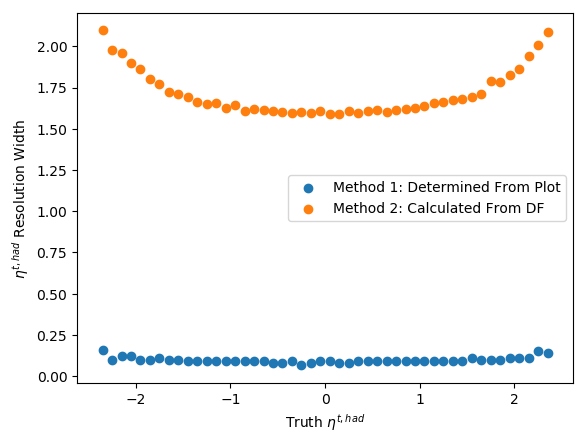
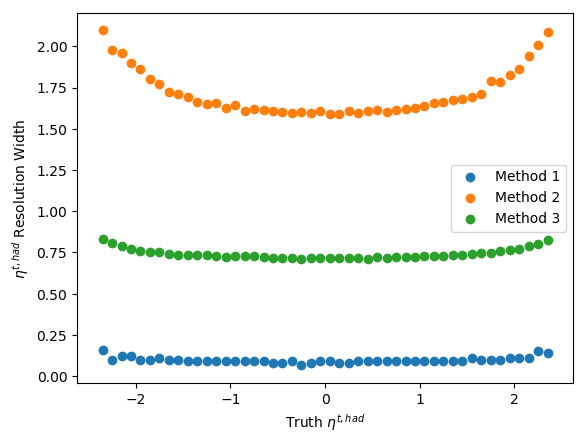
All changes (for now)

Changed region(s): [[0.1536, 0.3815, 0.9829, 0.6163], [0.4915, 0.4695, 0.5529, 0.4989]]

diff --git a/plotter.py b/plotter.py
@@ -4,7 +4,7 @@ import pandas as pd
 import awkward as ak
 import numpy as np
 import matplotlib
-matplotlib.use('Agg')  # need for not displaying plots when running batch jobs
+#matplotlib.use('Agg')  # need for not displaying plots when running batch jobs
 from matplotlib import pyplot as plt
 from matplotlib import colors
 from scipy.optimize import curve_fit
@@ -319,22 +319,35 @@ def Plot_Res_vs_Var(cutB,name,particle,variable,i,bins):
 		fwhm = x_r - x_l
 		
 		# Second method
-                sigma = cut_temp['resolution '+particle+' '+variable].std(ddof=0)
-                fwhm2 = 2*np.sqrt(2*np.log(2))*sigma
-                mean = cut_temp['resolution '+particle+' '+variable].mean()
+                sigma2 = cut_temp['resolution '+particle+' '+variable].std(ddof=0)
+                fwhm2 = 2*np.sqrt(2*np.log(2))*sigma2
+                mean2 = cut_temp['resolution '+particle+' '+variable].mean()
+
+
+		
+		# Third method
+		mid_bins = xhist[:-1] + np.diff(xhist)/2
+		mean3 = np.average(mid_bins, weights=yhist)
+		var3 = np.average((mid_bins - mean3)**2,weights=yhist)
+		sigma3 = np.sqrt(var3)
+		fwhm3 = 2*np.sqrt(2*np.log(2))*sigma3
+
+
 
 		# Append the data from this particular var
-		data.append([middle,fwhm,bins[2]/2,sigma,fwhm2,mean])
+		data.append([middle,fwhm,bins[2]/2,sigma2,fwhm2,mean2,sigma3,fwhm3,mean3])
 		
 	# Convert the array to a pandas data frame for easy reading	
-	df_res = pd.DataFrame(data,columns=(variable,'res fwhm','p/m','sigma2','fwhm2','mean2'))
+	df_res = pd.DataFrame(data,columns=(variable,'res fwhm','p/m','sigma2','fwhm2','mean2','sigma3','fwhm3','mean3'))
+	print df_res
 
 	# Create a plot
 	plt.figure(variable+' Resolution')
 	plt.scatter(df_res[variable], df_res['res fwhm'])
 	plt.scatter(df_res[variable], df_res['fwhm2'])
+	plt.scatter(df_res[variable], df_res['fwhm3'])
 	#plt.ylim(0,0.6)
-	plt.legend(['Method 1: Determined From Plot','Method 2: Calculated From DF'])
+	plt.legend(['Method 1','Method 2','Method 3'])
 	plt.xlabel('Truth '+labels[particle][i]+units[particle][i])
 	plt.ylabel(labels[particle][i]+' Resolution Width')
 
